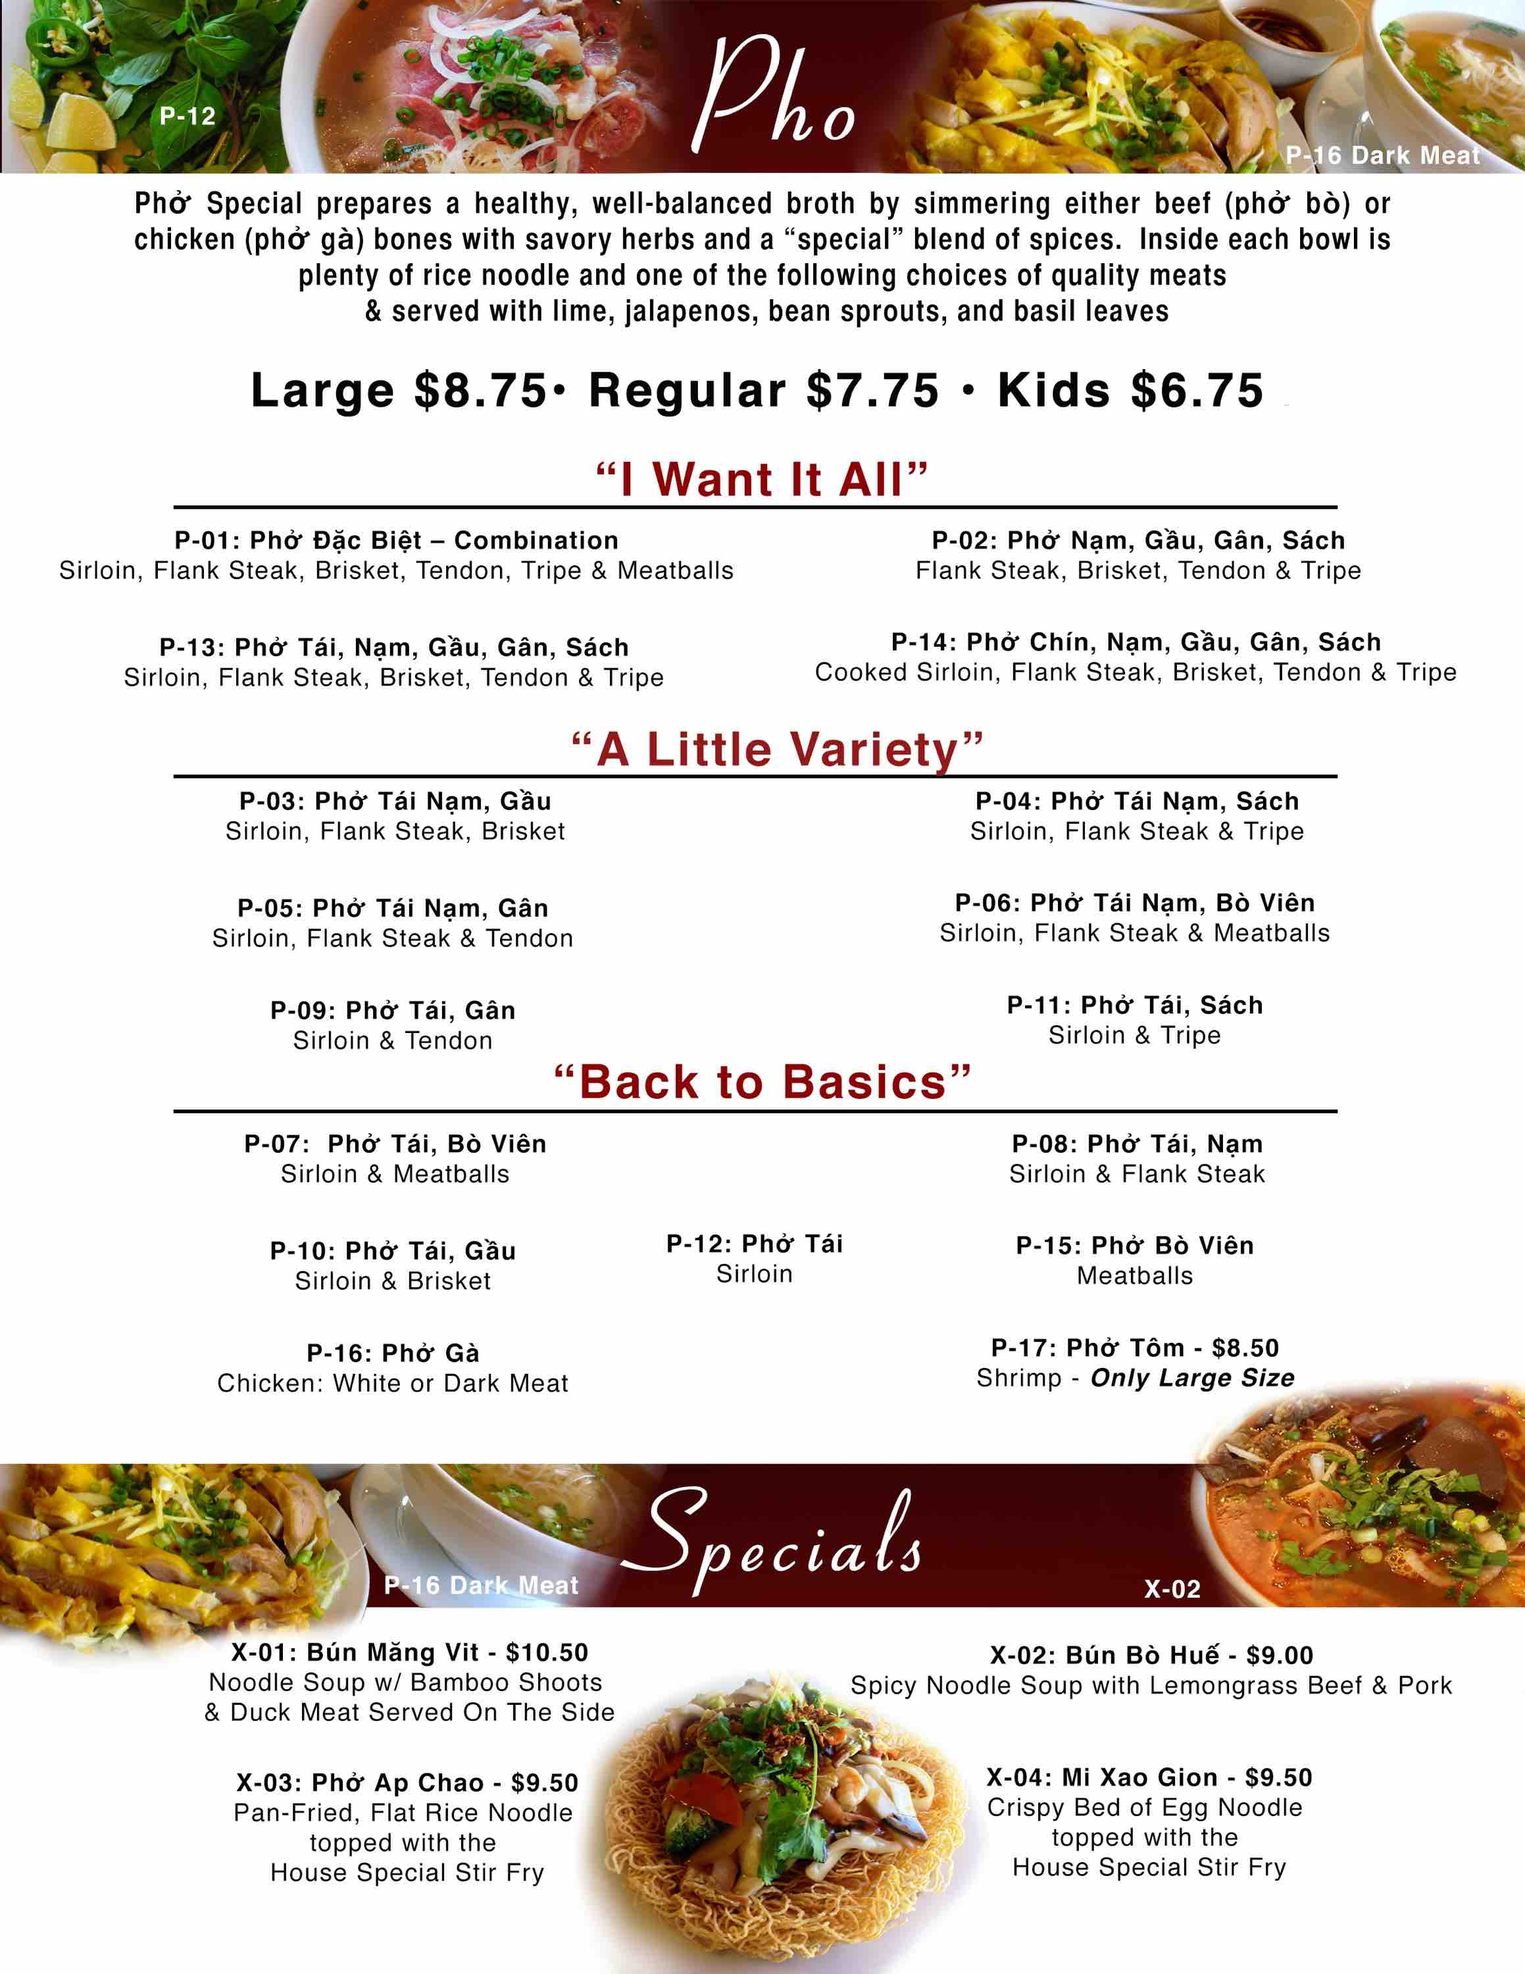
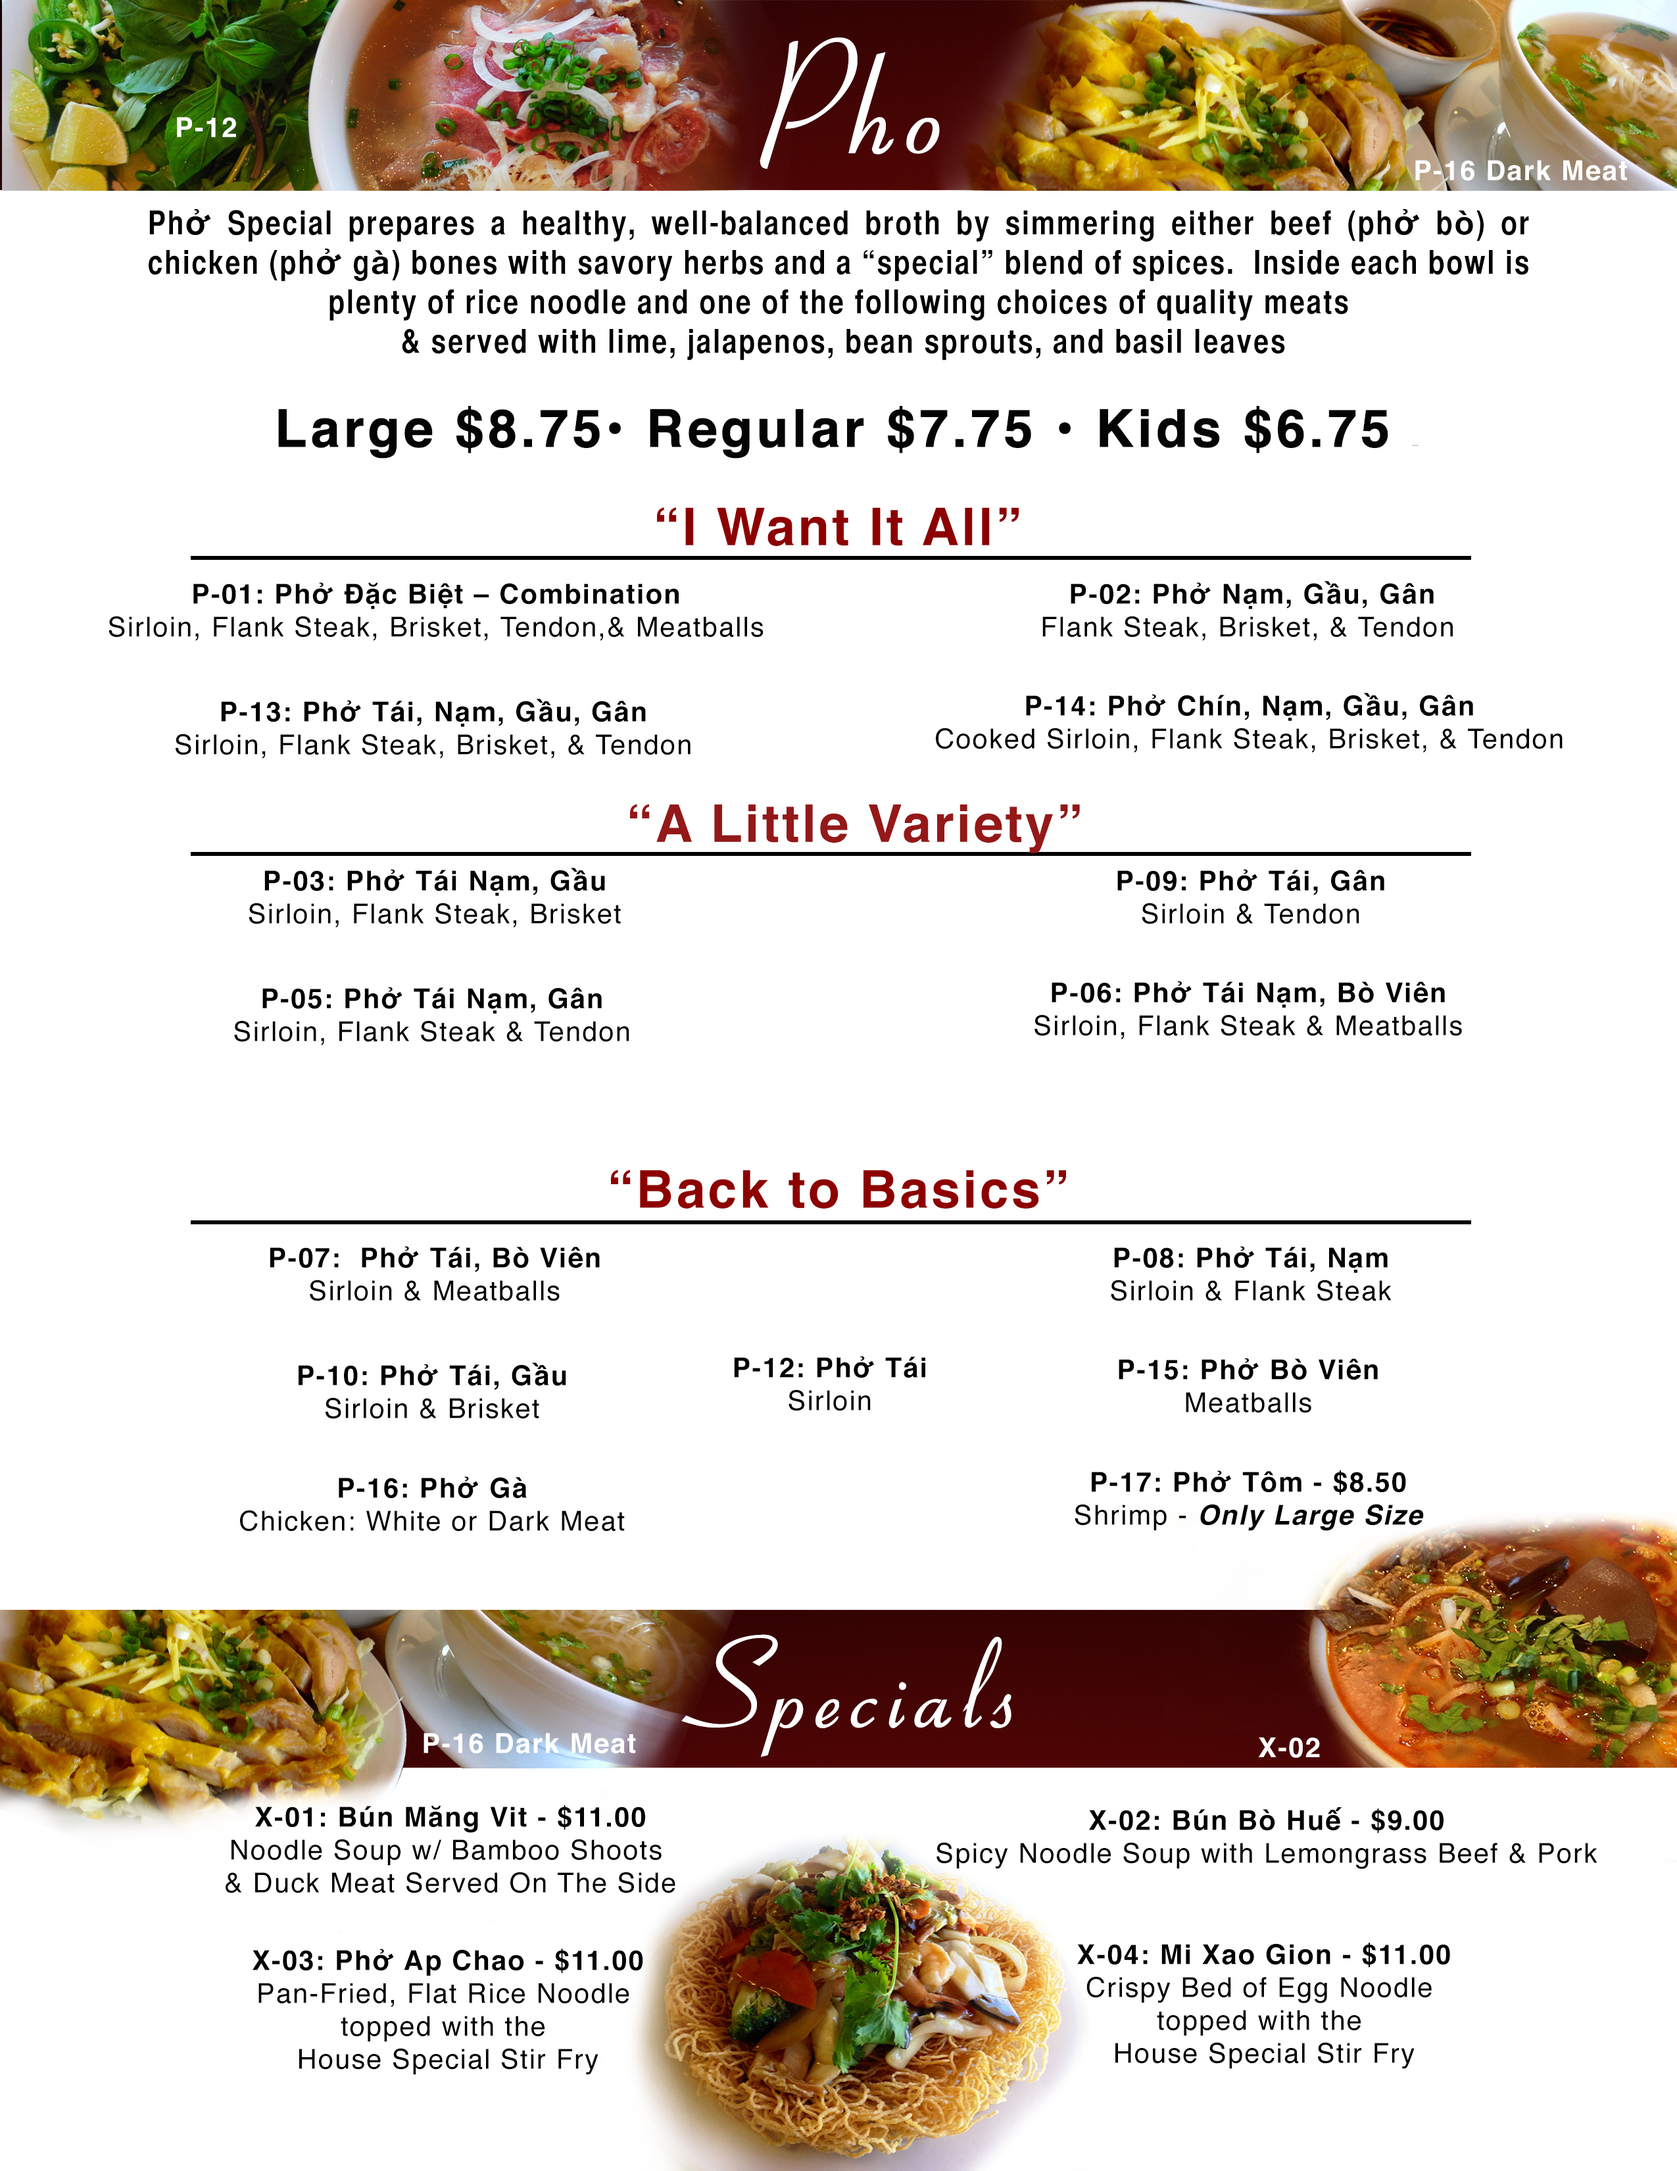
Update menu - no tripe

diff --git a/mobileMenu.html b/mobileMenu.html
@@ -175,16 +175,13 @@
 								<br>
 
 								<h5>P-01: Phở Đặc Biệt – Combination</h5>
-								<p>Sirloin, Flank Steak, Brisket, Tendon, Tripe &amp; Meatballs</p>
+								<p>Sirloin, Flank Steak, Brisket, Tendon, &amp; Meatballs</p>
 
 								<h5>P-02: Phở Nạm, Gầu, Gân, Sách</h5>
-								<p>Flank Steak, Brisket, Tendon &amp; Tripe</p>
+								<p>Flank Steak, Brisket, &amp; Tendon</p>
 
 								<h5>P-03: Phở Tái Nạm, Gầu</h5>
 								<p>Sirloin, Flank Steak, Brisket</p>
-
-								<h5>P-04: Phở Tái Nạm, Sách</h5>
-								<p>Sirloin, Flank Steak &amp; Tripe</p>
 
 								<h5>P-05: Phở Tái Nạm, Gân</h5>
 								<p>Sirloin, Flank Steak &amp; Tendon</p>
@@ -204,17 +201,14 @@
 								<h5>P-10: Phở Tái, Gầu</h5>
 								<p>Sirloin &amp; Brisket</p>
 
-								<h5>P-11: Phở Tái, Sách</h5>
-								<p>Sirloin &amp; Tripe</p>
-
 								<h5>P-12: Phở Tái</h5>
 								<p>Sirloin</p>
 
 								<h5>P-13: Phở Tái, Nạm, Gầu, Gân, Sách</h5>
-								<p>Sirloin, Flank Steak, Brisket, Tendon &amp; Tripe</p>
+								<p>Sirloin, Flank Steak, Brisket, &amp; Tendon</p>
 
 								<h5>P-14: Phở Chín, Nạm, Gầu, Gân, Sách</h5>
-								<p>Cooked Sirloin, Flank Steak, Brisket, Tendon &amp; Tripe</p>
+								<p>Cooked Sirloin, Flank Steak, Brisket, &amp; Tendon</p>
 
 								<h5>P-15: Phở Bò Viên</h5>
 								<p>Meatballs</p>
